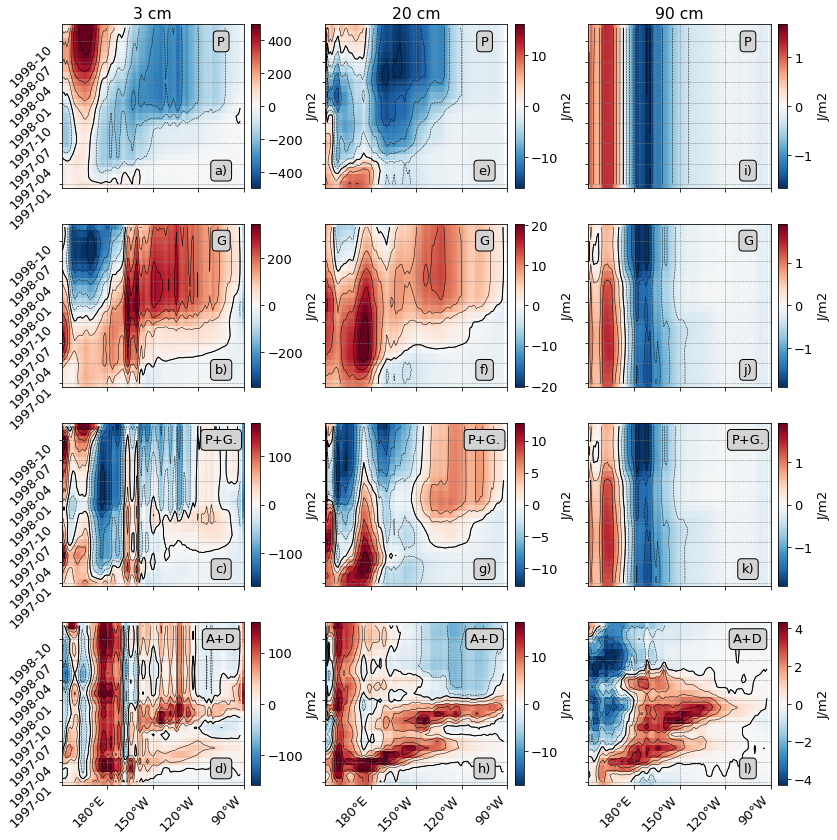
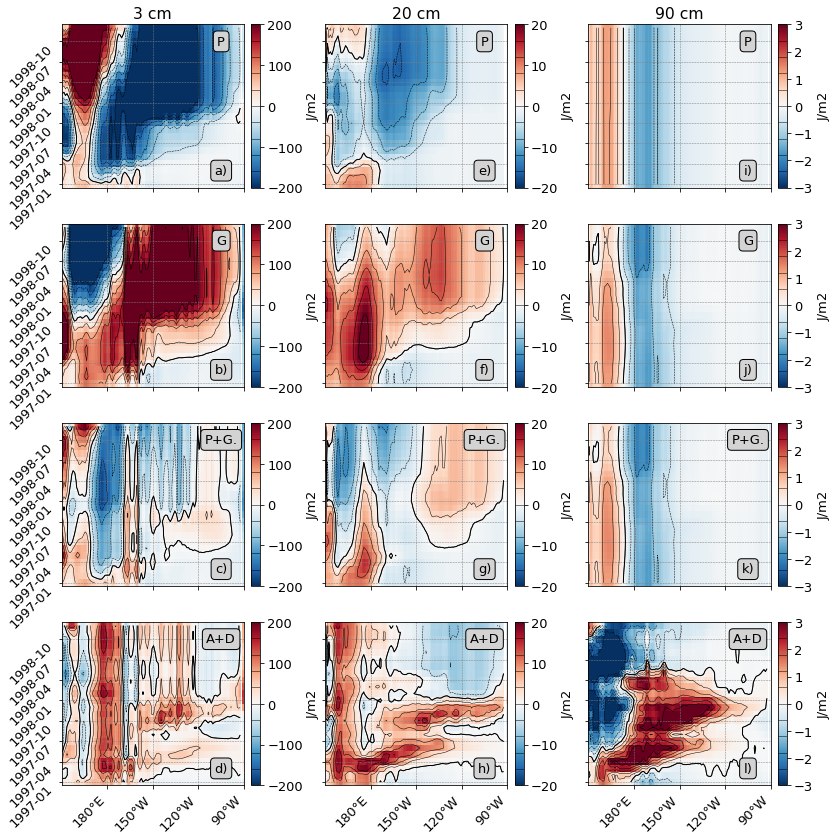
Update figure for similar axes

diff --git a/scripts/new-97/plot_ond_97_hov_trends.py b/scripts/new-97/plot_ond_97_hov_trends.py
@@ -151,7 +151,7 @@ def plot(ax, toplot, wstep, contour=True, levels=None, clim=None, trend=True):
     xticks[xticks < 0] += 360
     ax.set_xticks(xticks)
     plt.setp(ax.get_xticklabels(), ha='right', rotation=45)
-    return cs
+    return cs, cl
 
 
 dicttext = dict(boxstyle='round', facecolor='lightgray', alpha=1)
@@ -170,9 +170,18 @@ lon1 = 255
 time2 = len(time) - 3
 lon2 = 255
 
+clim = {}
+clim[3] = 200
+clim[20] = 20
+clim[90] = 3
+
 for l in [3, 20, 90]:
 
     ws = float(wstep.sel(l=l, method='nearest'))
+    
+    ccc = clim[l]
+    ccc = [-ccc, ccc]
+    #ccc = None
     
 #     toplot = oope.sel(l=l, method='nearest').values
 #     i += 1
@@ -195,9 +204,10 @@ for l in [3, 20, 90]:
     #trend = compute_trend(varnames).sel(l=l, method='nearest')
     toplot = trend.values
     i += 1
-    cs = plot(axgr[i], toplot, ws, )
+    cs, cl = plot(axgr[i], toplot, ws, clim=ccc)
     cb = plt.colorbar(cs, cax=axgr.cbar_axes[i])
     cb.set_label('J/m2')
+    cb.add_lines(cl)
 #     if l == 3:
 #         axgr[i].set_title('Predation')
     axgr[i].text(lon1, time1, '%s)' %letters[i], bbox=dicttext, ha='center', va='center')
@@ -213,9 +223,10 @@ for l in [3, 20, 90]:
     trend = compute_trend(['growthTrend']).sel(l=l, method='nearest')
     toplot = trend.values
     i += 1
-    cs = plot(axgr[i], toplot, ws, )
+    cs, cl = plot(axgr[i], toplot, ws, clim=ccc)
     cb = plt.colorbar(cs, cax=axgr.cbar_axes[i])
     cb.set_label('J/m2')
+    cb.add_lines(cl)
 #     if(l == 3):
 #         axgr[i].set_title('Growth')
     axgr[i].text(lon1, time1, '%s)' %letters[i], bbox=dicttext, ha='center', va='center')
@@ -225,9 +236,10 @@ for l in [3, 20, 90]:
     trend = compute_trend(['growthTrend', 'predationTrend']).sel(l=l, method='nearest')
     toplot = trend.values
     i += 1
-    cs = plot(axgr[i], toplot, ws, )
+    cs, cl = plot(axgr[i], toplot, ws, clim=ccc)
     cb = plt.colorbar(cs, cax=axgr.cbar_axes[i])
     cb.set_label('J/m2')
+    cb.add_lines(cl)
 #     if(l == 3):
 #         axgr[i].set_title('Predation + Growth')
     axgr[i].text(lon1, time1, '%s)' %letters[i], bbox=dicttext, ha='center', va='center')
@@ -237,9 +249,10 @@ for l in [3, 20, 90]:
     trend = compute_trend(['madv_trend', 'zadv_trend', 'mdiff_trend', 'zdiff_trend']).sel(l=l, method='nearest')
     toplot = trend.values
     i += 1
-    cs = plot(axgr[i], toplot, ws)
+    cs, cl = plot(axgr[i], toplot, ws, clim=ccc)
     cb = plt.colorbar(cs, cax=axgr.cbar_axes[i])
     cb.set_label('J/m2')
+    cb.add_lines(cl)
 #     if(l == 3):
 #         axgr[i].set_title('Adv. + Diff')
     axgr[i].text(lon1, time1, '%s)' %letters[i], bbox=dicttext, ha='center', va='center')
@@ -250,7 +263,6 @@ for l in [3, 20, 90]:
     if(i == 0):
         axgr[i].set_title('3cm')    
 
-    
 plt.savefig('hovmoller_anoms_oope_trends.png', bbox_inches='tight')
 # -
 
@@ -294,7 +306,7 @@ for l in [3, 20, 90]:
     trend = compute_trend(var).sel(l=l, method='nearest')
     toplot = trend.values
     i += 1
-    cs = plot(axgr[i], toplot, ws)
+    cs, cl = plot(axgr[i], toplot, ws)
     cb = plt.colorbar(cs, cax=axgr.cbar_axes[i])
     cb.set_label('J/m2')
     if l == 3:
@@ -308,7 +320,7 @@ for l in [3, 20, 90]:
     trend = compute_trend(var).sel(l=l, method='nearest')
     toplot = trend.values
     i += 1
-    cs = plot(axgr[i], toplot, ws)
+    cs, cl = plot(axgr[i], toplot, ws)
     cb = plt.colorbar(cs, cax=axgr.cbar_axes[i])
     cb.set_label('J/m2')
     if l == 3:
@@ -322,10 +334,13 @@ for l in [3, 20, 90]:
     #trend = compute_trend(varnames).sel(l=l, method='nearest')
     toplot = trend.values
     i += 1
-    cs = plot(axgr[i], toplot, ws,)
+    cs, cl = plot(axgr[i], toplot, ws,)
     cb = plt.colorbar(cs, cax=axgr.cbar_axes[i])
     cb.set_label('J/m2')
     if l == 3:
         axgr[i].set_title('\n'.join(var))
     axgr[i].text(lon1, time1, '%s)' %letters[i], bbox=dicttext, ha='center', va='center')
     axgr[i].text(lon2, time2, '%scm' %l, bbox=dicttext, ha='center', va='center')
+# -
+
+
